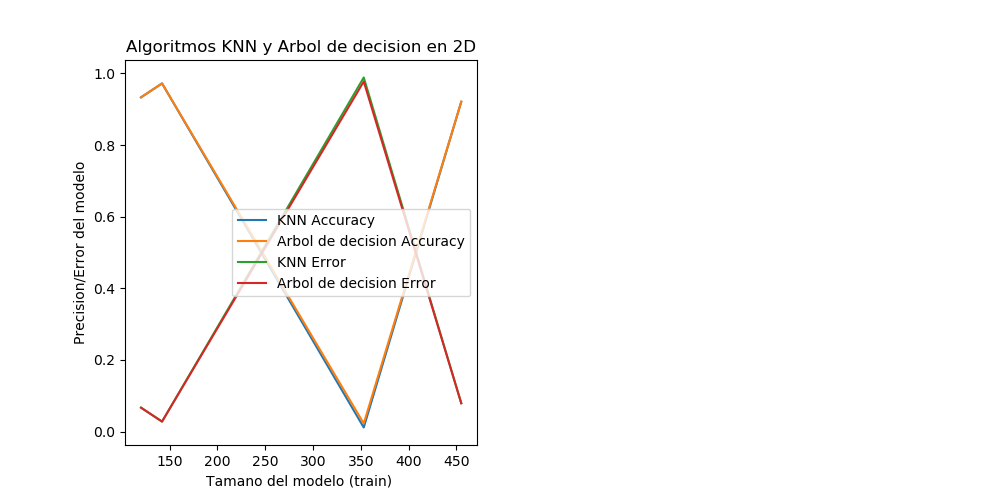
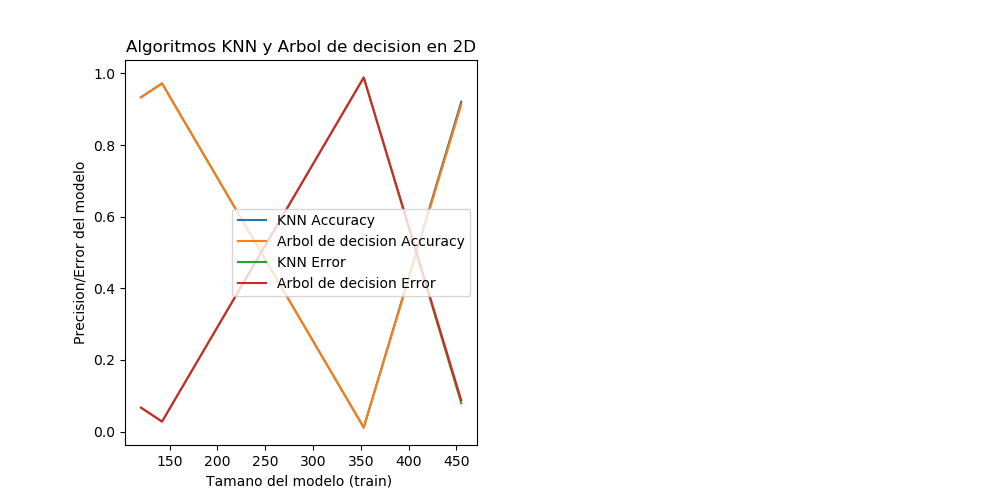
Ejercicio 4 para 3 dimensiones

diff --git a/PRACTICAS/PRACTICA1/ejercicio4/3dimensiones.py b/PRACTICAS/PRACTICA1/ejercicio4/3dimensiones.py
@@ -7,12 +7,12 @@ from sklearn import metrics
 from sklearn.model_selection import train_test_split
 from sklearn.neighbors import KNeighborsClassifier
 from sklearn.tree import DecisionTreeClassifier
-import matplotlib.pyplot as plt # Grafica PCA 2D    
+import matplotlib.pyplot as plt # Grafica PCA 3D
 from sklearn import preprocessing
 from sklearn.preprocessing import StandardScaler
 from sklearn.decomposition import PCA
 
-# variables para el grafico de PCA de 2 dimensiones
+# variables para el grafico de PCA de 3 dimensiones
 knn_size = []; knn_accuracy = []; knn_error=[]
 arbol_size = []; arbol_accuracy = []; arbol_error=[]
 
@@ -30,11 +30,11 @@ scaler.fit(X_train)
 X_train = scaler.transform(X_train)
 X_test = scaler.transform(X_test)
 
-# Apply PCA 2D
-pca = PCA(n_components=2)
+# Apply PCA 3D
+pca = PCA(n_components=3)
 pca.fit(X_train)
 
-# Fit and transform data 2D
+# Fit and transform data 3D
 X_train = pca.fit_transform(X_train)
 X_test = pca.transform(X_test)
 
@@ -42,30 +42,30 @@ X_test = pca.transform(X_test)
 model = KNeighborsClassifier()
 model2 = DecisionTreeClassifier()
 
-# Tamano del modelo 2D
+# Tamano del modelo 3D
 knn_size.append(len(X_train))
 arbol_size.append(len(X_train))
 
 
-# Entrenamos el modelo 2D
+# Entrenamos el modelo 3D
 model.fit(X_train, y_train)
 model2.fit(X_train, y_train)
 
 
-# Hacemos las predicciones 2D
+# Hacemos las predicciones 3D
 y_pred = model.predict(X_test)
 y_pred2 = model2.predict(X_test)
 
 
-# Calculamos la precision 2D
+# Calculamos la precision 3D
 precision = metrics.accuracy_score(y_test, y_pred)
 precision2 = metrics.accuracy_score(y_test, y_pred2)
 
-# Calculamos el error 2D
+# Calculamos el error 3D
 error = 1 - precision
 error2 = 1 - precision2
 
-# Guardamos los resultados 2D
+# Guardamos los resultados 3D
 knn_accuracy.append(precision)
 knn_error.append(error)
 arbol_accuracy.append(precision2)
@@ -84,22 +84,22 @@ scaler.fit(X_train)
 X_train = scaler.transform(X_train)
 X_test = scaler.transform(X_test)
 
-# Apply PCA 2D
+# Apply PCA 3D
 pca.fit(X_train)
 
-# Fit and transform data 2D
+# Fit and transform data 3D
 X_train = pca.fit_transform(X_train)
 X_test = pca.transform(X_test)
 
-# Tamano del modelo 2D
+# Tamano del modelo 3D
 knn_size.append(len(X_train))
 arbol_size.append(len(X_train))
 
-# Entrenamos el modelo 2D
+# Entrenamos el modelo 3D
 model.fit(X_train, y_train)
 model2.fit(X_train, y_train)
 
-# Hacemos las predicciones 2D
+# Hacemos las predicciones 3D
 y_pred = model.predict(X_test)
 y_pred2 = model2.predict(X_test)
 
@@ -218,6 +218,6 @@ plt.plot(knn_size, knn_error, label='KNN Error')
 plt.plot(arbol_size, arbol_error, label='Arbol de decision Error')
 plt.xlabel('Tamano del modelo (train) ')
 plt.ylabel('Precision/Error del modelo')
-plt.title('Algoritmos KNN y Arbol de decision en 2D')
+plt.title('Algoritmos KNN y Arbol de decision en 3D')
 plt.legend()
-plt.savefig('images/ejercicio4_2dimesiones.png')
+plt.savefig('images/ejercicio4_3dimesiones.png')
